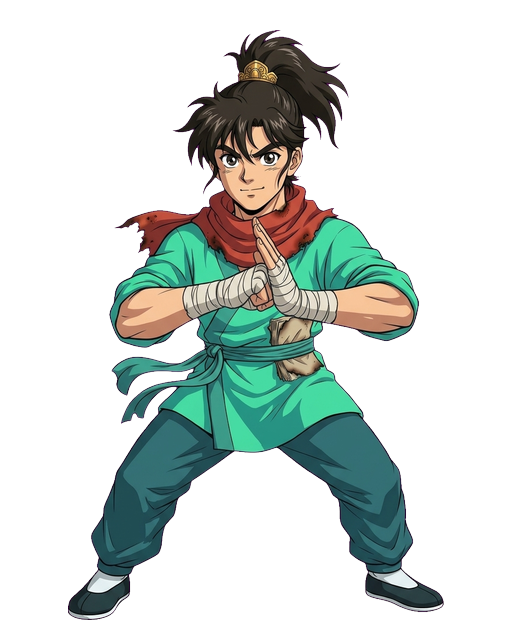
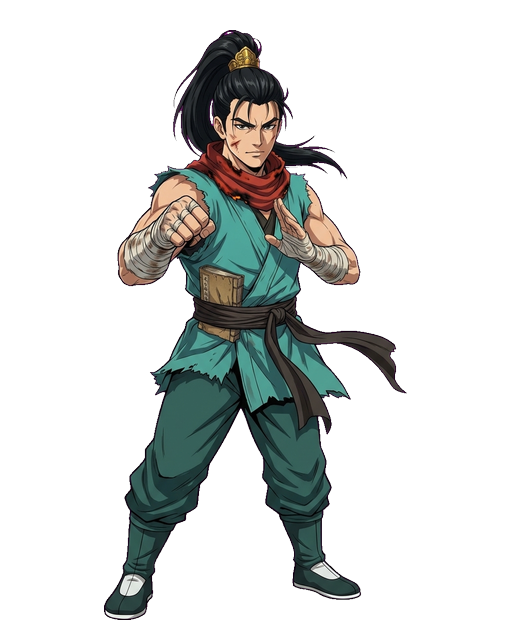
接入 v8 素材：武者成年二次元立绘/选人图；杨家将 9 个战斗动作改正常比例（全量测试运行中，未验证）
Claude-Session: https://claude.ai/code/session_01AdrMLJK1Rs8dRqXGtPMhfy

diff --git a/tools/process_yangjia_v3_art.py b/tools/process_yangjia_v3_art.py
@@ -7,13 +7,18 @@ from PIL import Image
 
 ROOT = pathlib.Path(__file__).resolve().parent.parent
 V3 = ROOT / "assets" / "source" / "yangjiajiang_v3"
+V8 = ROOT / "assets" / "source" / "yangjiajiang_v8"     # 第八版：武者成年二次元重画（有就优先）
+
+
+def pick(name):
+    return V8 / name if (V8 / name).exists() else V3 / name
 
 
 def main():
     for k in ["fist", "sword", "blade", "spear"]:               # 创建角色立绘 1200×1600，原样使用
-        Image.open(V3 / f"{k}_hero.jpg").convert("RGB").save(ROOT / "assets" / "portraits" / f"{k}_hero.jpg", quality=93)
+        Image.open(pick(f"{k}_hero.jpg")).convert("RGB").save(ROOT / "assets" / "portraits" / f"{k}_hero.jpg", quality=93)
     for k in ["fist", "sword", "blade", "spear"]:               # 选人全身像：透明底，裁边后放进 512×640
-        cut = Image.open(V3 / f"charselect_{k}.png").convert("RGBA")
+        cut = Image.open(pick(f"charselect_{k}.png")).convert("RGBA")
         bb = cut.getchannel("A").point(lambda v: 255 if v > 128 else 0).getbbox()
         cut = cut.crop(bb)
         sc = min(500 / cut.width, 590 / cut.height)

diff --git a/tools/process_yangjia_sprites.py b/tools/process_yangjia_sprites.py
@@ -9,7 +9,7 @@ import sys
 from PIL import Image
 
 ROOT = pathlib.Path(__file__).resolve().parent.parent
-SRC = ROOT / "assets" / "source" / "yangjiajiang_v4"   # 第四版：像素 Q 版，各动作人物同比例，每个动作 1 行 4 帧
+SRC = ROOT / "assets" / "source" / "yangjiajiang_v8"   # 第八版：正常比例（头约 1/5），每个动作 1 行 4 帧
 OUT = ROOT / "assets" / "sprites" / "spear"
 WORK = OUT / "source"
 MAGENTA = (255, 0, 255)
